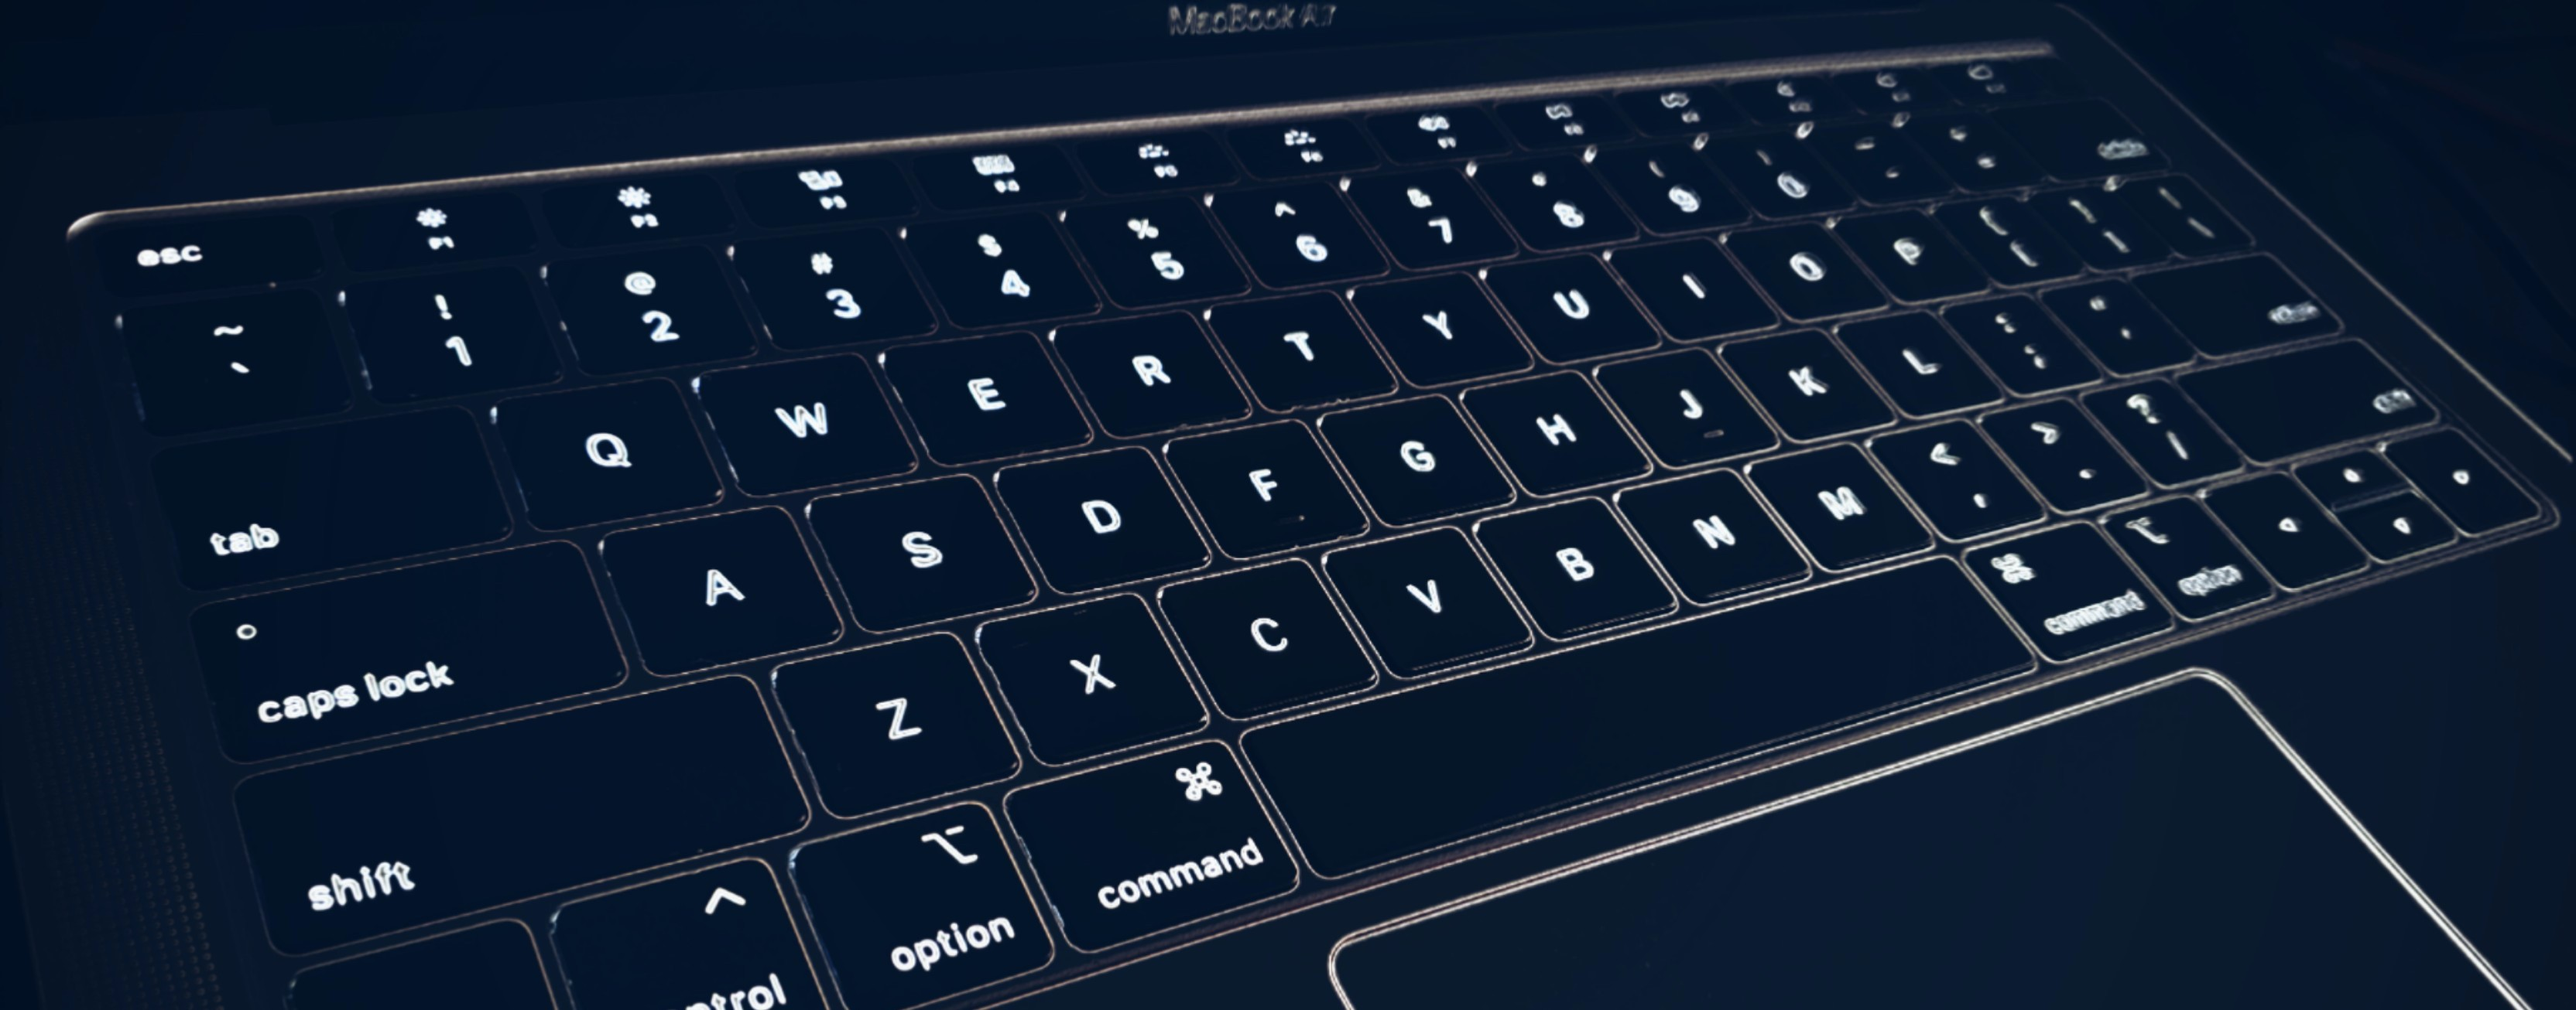
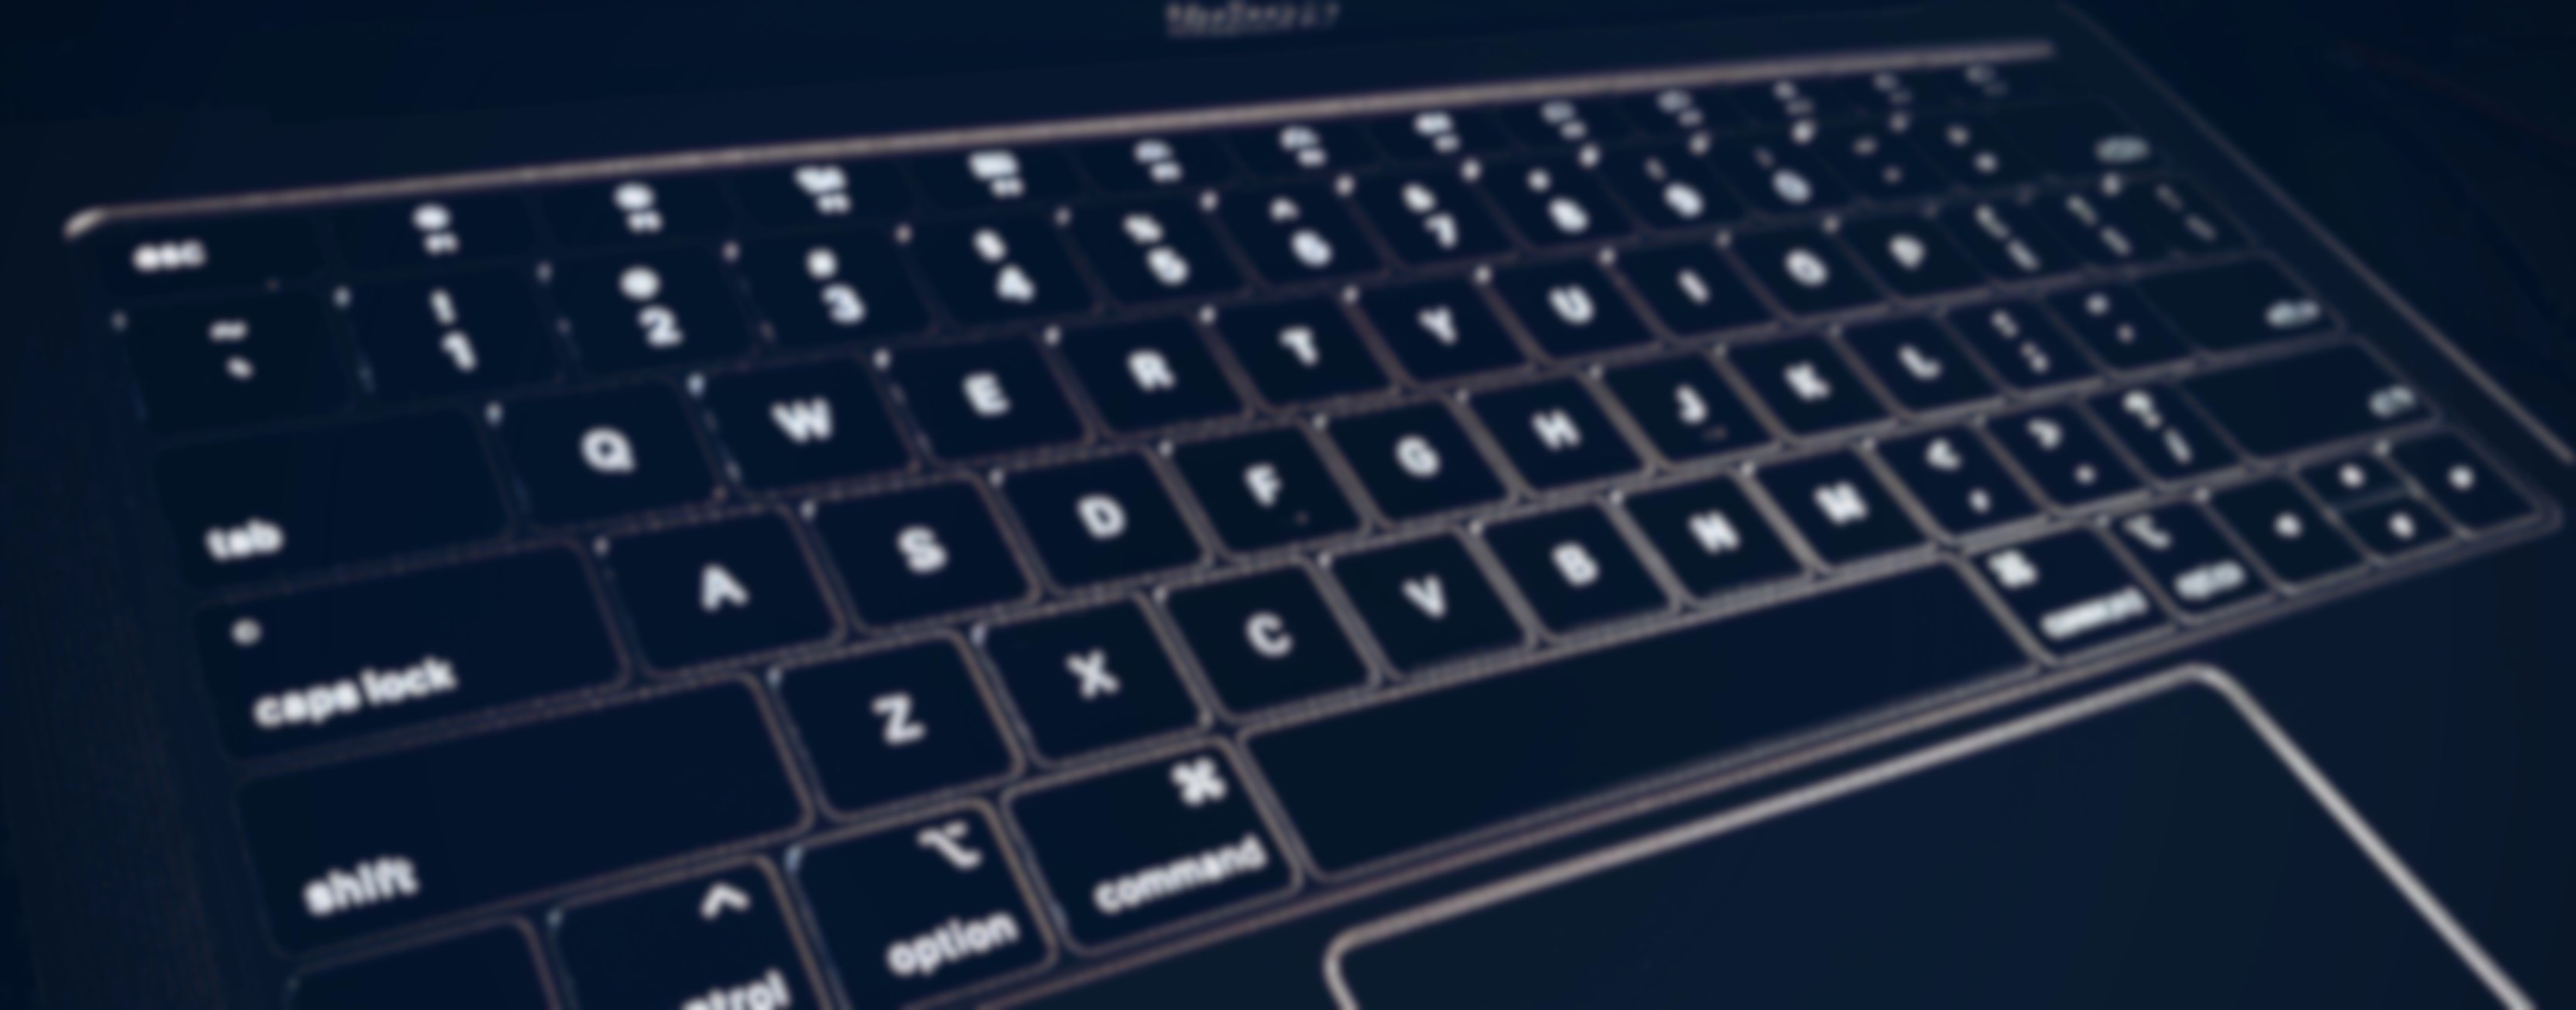
fixed photo issue

diff --git a/src/components/Home.js b/src/components/Home.js
@@ -5,23 +5,28 @@ import { Image } from 'semantic-ui-react'
 import Keyboard from '../images/keyboard.jpg'
 
 export default class Home extends React.Component {
-  state = { photoHeight: (window.innerWidth / 3.8) }
+  state = { photoHeight: (window.innerWidth / 2.5), photoWidth: (window.innerWidth/ 1.7) }
 
   componentDidMount() { window.addEventListener('resize', this.handleResize) }
 
   handleResize = () => {
     this.setState({
-      photoHeight: (window.innerWidth / 3.7)
+      photoHeight: (window.innerWidth / 2.5), photoWidth: (window.innerWidth/ 1.7)
     })
   }
 
   render() {
-    const { photoHeight } = this.state
+    const { photoHeight, photoWidth } = this.state
     return (
       <div style={homeStyle.container}>
-        <div style={homeStyle.header}>
-          <div style={homeStyle.backgroundImage}>
-            <Image src={Keyboard} />
+        <div style={{ ...homeStyle.header, height: window.innerHeight}}>
+          <div style={{...homeStyle.backgroundImage,height: window.innerHeight }}>
+            <div style={homeStyle.imagePartial}>
+              <div style={homeStyle.crop}>
+                <Image src={Keyboard} style={{...homeStyle.photo, objectFit:'cover'}}/>
+              </div>
+            </div>
+            <div style={homeStyle.partial}></div>
           </div>
           <div style={homeStyle.mainInfo}>
             <div style={homeStyle.description}>
@@ -29,7 +34,7 @@ export default class Home extends React.Component {
               <h3 style={{ fontSize: '1.5vw', margin: '0px' }}>Full-Stack Web Developer/</h3>
               <h3 style={{ fontSize: '1.5vw', margin: '0px' }}>Geospatial Engineer </h3>
             </div>
-            <div style={{ ...homeStyle.photoHolder, height: photoHeight }}>
+            <div style={{ ...homeStyle.photoHolder, width: photoWidth,height: photoHeight }}>
               <div style={homeStyle.crop}>
                 <Image style={homeStyle.photo} src={HomePhoto} />
               </div>

diff --git a/src/styles/ApplicationStyle.js b/src/styles/ApplicationStyle.js
@@ -74,19 +74,18 @@ export const homeStyle ={
     verticalAlign: 'top',
     width: '40%',
     overflow: 'hidden',
-  },
-  backgroundImage:{
-    filter:'blur(8px)',
+
+    float:'right'
   },
   mainInfo:{
-    margin: '2% 10%',
+    margin: '2% 12%',
     display:'flex',
     justifyContent:'space-between',
     position:'absolute',
-    top:'40%',
-    left:'40%',
-    transform:'translate(-50%, -50%)',
-    width:'70%',
+    top:'30%',
+    left:'30%',
+    transform:'translate(-40%, -40%)',
+    width:'80%',
     backgroundColor:'rgba(25, 27, 41, .6)',
     border:'1px solid #70738a',
     paddingTop:'2%'
@@ -102,9 +101,24 @@ export const homeStyle ={
   },
   header:{
     boxShadow:'0px 5px 20px #17181f',
-    overflow:'hidden'
+    overflow:'hidden',
   },
   extraInfo:{
     margin:'3% 10%'
-  }
+  },
+  partial:{
+    width:'30%',
+    backgroundColor:'#101321'
+  },
+  imagePartial:{
+    overflow:'hidden',
+    width:'100%',
+    height:'100%',
+    display: 'inline-block',
+    verticalAlign: 'top',
+    backgroundColor:'#161b30',
+  },
+  backgroundImage:{
+    display:'flex',
+  },
 }
